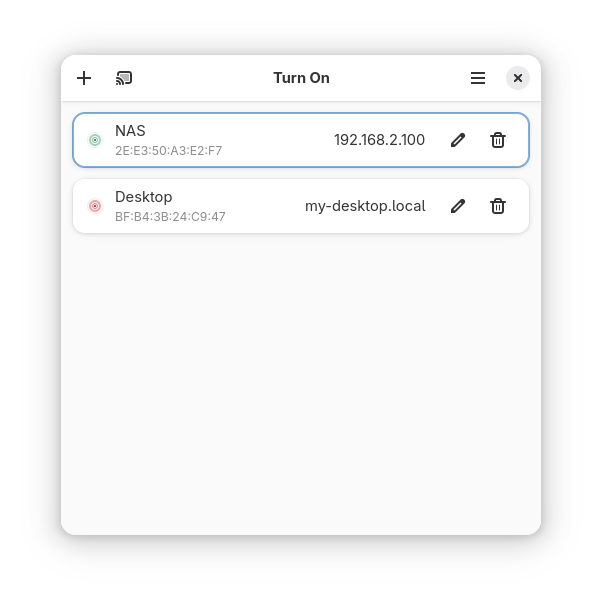
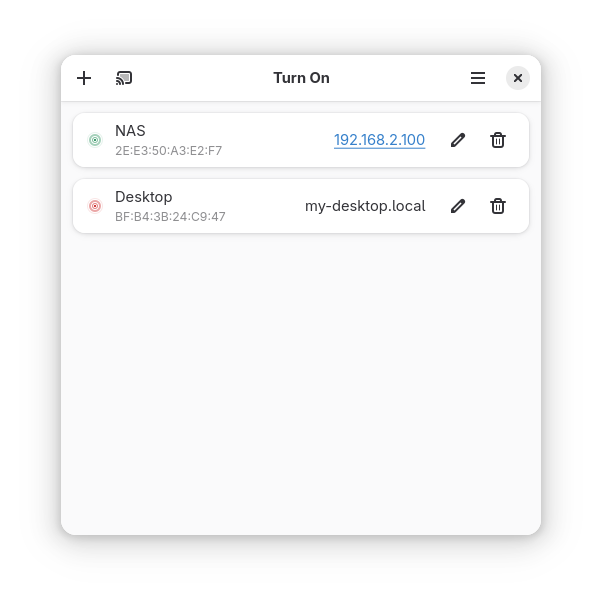
Probe for web interfaces on reachable devices

Changed region(s): [[0.1196, 0.1794, 0.897, 0.299]]

diff --git a/src/net/http.rs b/src/net/http.rs
@@ -1,0 +1,80 @@
+// Copyright Sebastian Wiesner <sebastian@swsnr.de>
+
+// This Source Code Form is subject to the terms of the Mozilla Public
+// License, v. 2.0. If a copy of the MPL was not distributed with this
+// file, You can obtain one at http://mozilla.org/MPL/2.0/.
+
+use std::fmt::Display;
+use std::net::IpAddr;
+use std::str::FromStr;
+use std::time::Duration;
+
+use gtk::gio::prelude::SocketClientExt;
+use gtk::gio::{IOErrorEnum, SocketClient};
+
+use crate::config::G_LOG_DOMAIN;
+
+#[derive(Debug, Clone, Copy, PartialEq, Eq)]
+pub enum HttpScheme {
+    Http,
+    Https,
+}
+
+impl HttpScheme {
+    pub fn as_str(self) -> &'static str {
+        match self {
+            HttpScheme::Http => "http:",
+            HttpScheme::Https => "https:",
+        }
+    }
+
+    pub fn port(self) -> u16 {
+        match self {
+            HttpScheme::Http => 80,
+            HttpScheme::Https => 443,
+        }
+    }
+
+    pub fn to_url(self, host: &str) -> String {
+        if IpAddr::from_str(host).is_ok_and(|ip| ip.is_ipv6()) {
+            format!("{self}//[{host}]")
+        } else {
+            format!("{self}//{host}")
+        }
+    }
+}
+
+impl Display for HttpScheme {
+    fn fmt(&self, f: &mut std::fmt::Formatter<'_>) -> std::fmt::Result {
+        write!(f, "{}", self.as_str())
+    }
+}
+
+/// Probe a host for HTTP support.
+///
+/// Attempt to connect to `host` via standard HTTPS and HTTP ports 443 and 80
+/// respectively, and return the supported scheme if either succeeds.
+pub async fn probe_http(host: &str, timeout: Duration) -> Option<HttpScheme> {
+    for scheme in [HttpScheme::Https, HttpScheme::Http] {
+        let client = SocketClient::new();
+        client.set_tls(matches!(scheme, HttpScheme::Https));
+        // We probe hosts we can ping directly, so there should never be a proxy involved.
+        client.set_enable_proxy(false);
+        client.set_timeout(u32::try_from(timeout.as_secs()).unwrap());
+        let result =
+            glib::future_with_timeout(timeout, client.connect_to_host_future(host, scheme.port()))
+                .await
+                .map_err(|_| {
+                    glib::Error::new(IOErrorEnum::TimedOut, &format!("Host {host} timed out"))
+                })
+                .and_then(|r| r)
+                .inspect_err(|error| {
+                    glib::info!("{host} not reachable via {scheme}: {error}");
+                });
+        if result.is_ok() {
+            glib::info!("{host} reachable via {scheme}");
+            return Some(scheme);
+        }
+    }
+    None
+}

diff --git a/src/app/widgets/application_window.rs b/src/app/widgets/application_window.rs
@@ -40,6 +40,7 @@ mod imp {
 
     use adw::subclass::prelude::*;
     use adw::{Toast, ToastOverlay, prelude::*};
+    use futures_util::future::Either;
     use futures_util::{StreamExt, TryStreamExt, stream};
     use glib::dpgettext2;
     use gtk::CompositeTemplate;
@@ -49,7 +50,7 @@ mod imp {
     use crate::app::model::{Device, Devices};
     use crate::app::widgets::MoveDirection;
     use crate::config::G_LOG_DOMAIN;
-    use crate::net;
+    use crate::net::{self, probe_http};
 
     use super::super::DeviceRow;
 
@@ -144,13 +145,34 @@ mod imp {
                 #[weak]
                 row,
                 #[upgrade_or]
-                futures_util::future::err(()),
+                Either::Left(futures_util::future::err(())),
                 move |result| {
-                    if let Err(error) = &result {
-                        glib::trace!("Device {} not reachable: {error}", row.device().label());
-                    }
-                    row.set_is_device_online(result.is_ok());
-                    futures_util::future::ok(())
+                    Either::Right(async move {
+                        match result {
+                            Ok(_) => {
+                                row.set_is_device_online(true);
+                                let url = probe_http(&row.device().host(), Duration::from_secs(1))
+                                    .await
+                                    .map(|scheme| scheme.to_url(&row.device().host()))
+                                    .inspect(|url| {
+                                        glib::info!(
+                                            "Device {} offers URL {url}",
+                                            row.device().label()
+                                        );
+                                    });
+                                row.set_device_url(url);
+                            }
+                            Err(error) => {
+                                glib::trace!(
+                                    "Device {} not reachable: {error}",
+                                    row.device().label()
+                                );
+                                row.set_device_url(None::<String>);
+                                row.set_is_device_online(false);
+                            }
+                        }
+                        Ok(())
+                    })
                 }
             )));
             abort_monitoring

diff --git a/src/app/widgets/device_row.rs b/src/app/widgets/device_row.rs
@@ -155,23 +155,38 @@ mod imp {
         device: RefCell<Device>,
         #[property(get, set)]
         is_device_online: Cell<bool>,
+        #[property(get, set, nullable)]
+        device_url: RefCell<Option<String>>,
         #[property(get)]
         suffix_mode: RefCell<String>,
     }
 
     #[template_callbacks]
     impl DeviceRow {
-        #[template_callback]
-        pub fn device_mac_address(_row: &super::DeviceRow, device: &Device) -> String {
+        #[template_callback(function)]
+        pub fn device_mac_address(device: &Device) -> String {
             device.mac_address().to_string()
         }
 
-        #[template_callback]
-        pub fn device_state_name(_row: &super::DeviceRow, is_device_online: bool) -> &'static str {
+        #[template_callback(function)]
+        pub fn device_state_name(is_device_online: bool) -> &'static str {
             if is_device_online {
                 "online"
             } else {
                 "offline"
+            }
+        }
+
+        #[template_callback(function)]
+        pub fn device_host(host: &str, url: Option<&str>) -> String {
+            if let Some(url) = url {
+                format!(
+                    "<a href=\"{}\">{}</a>",
+                    glib::markup_escape_text(url),
+                    glib::markup_escape_text(host)
+                )
+            } else {
+                glib::markup_escape_text(host).to_string()
             }
         }
 
@@ -249,6 +264,7 @@ mod imp {
             Self {
                 device: RefCell::default(),
                 is_device_online: Cell::default(),
+                device_url: RefCell::default(),
                 suffix_mode: RefCell::new("buttons".into()),
             }
         }

diff --git a/src/net.rs b/src/net.rs
@@ -11,11 +11,13 @@
 //! implementation, some helper types, and various tools for network scanning.
 
 pub mod arpcache;
+mod http;
 mod macaddr;
 mod monitor;
 mod ping;
 mod wol;
 
+pub use http::probe_http;
 pub use macaddr::MacAddr6Boxed;
 pub use monitor::monitor;
 pub use ping::{PingDestination, ping_address};
